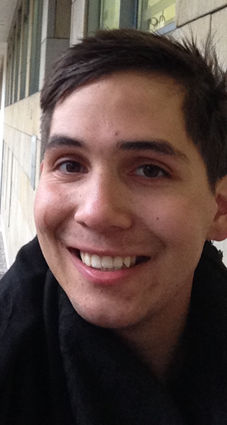
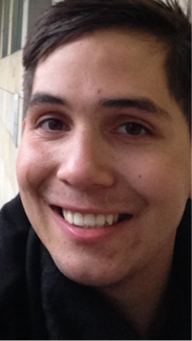
created css and js files without any additional work toward styling or scripting -- Links to github profile -- added alaska flag image and profile image, optimized image to reduce size -- TODO: STYLESHEETS, SCRIPTS, FINISH HTML SECTIONS

diff --git a/scripts/course.js b/scripts/course.js
@@ -1,0 +1,79 @@
+const courses = [
+    {
+        subject: 'CSE',
+        number: 110,
+        title: 'Introduction to Programming',
+        credits: 2,
+        certificate: 'Web and Computer Programming',
+        description: 'This course will introduce students to programming. It will introduce the building blocks of programming languages (variables, decisions, calculations, loops, array, and input/output) and use them to solve problems.',
+        technology: [
+            'Python'
+        ],
+        completed: true
+    },
+    {
+        subject: 'WDD',
+        number: 130,
+        title: 'Web Fundamentals',
+        credits: 2,
+        certificate: 'Web and Computer Programming',
+        description: 'This course introduces students to the World Wide Web and to careers in web site design and development. The course is hands on with students actually participating in simple web designs and programming. It is anticipated that students who complete this course will understand the fields of web design and development and will have a good idea if they want to pursue this degree as a major.',
+        technology: [
+            'HTML',
+            'CSS'
+        ],
+        completed: true
+    },
+    {
+        subject: 'CSE',
+        number: 111,
+        title: 'Programming with Functions',
+        credits: 2,
+        certificate: 'Web and Computer Programming',
+        description: 'CSE 111 students become more organized, efficient, and powerful computer programmers by learning to research and call functions written by others; to write, call , debug, and test their own functions; and to handle errors within functions. CSE 111 students write programs with functions to solve problems in many disciplines, including business, physical science, human performance, and humanities.',
+        technology: [
+            'Python'
+        ],
+        completed: true
+    },
+    {
+        subject: 'CSE',
+        number: 210,
+        title: 'Programming with Classes',
+        credits: 2,
+        certificate: 'Web and Computer Programming',
+        description: 'This course will introduce the notion of classes and objects. It will present encapsulation at a conceptual level. It will also work with inheritance and polymorphism.',
+        technology: [
+            'C#'
+        ],
+        completed: true
+    },
+    {
+        subject: 'WDD',
+        number: 131,
+        title: 'Dynamic Web Fundamentals',
+        credits: 2,
+        certificate: 'Web and Computer Programming',
+        description: 'This course builds on prior experience in Web Fundamentals and programming. Students will learn to create dynamic websites that use JavaScript to respond to events, update content, and create responsive user experiences.',
+        technology: [
+            'HTML',
+            'CSS',
+            'JavaScript'
+        ],
+        completed: true
+    },
+    {
+        subject: 'WDD',
+        number: 231,
+        title: 'Frontend Web Development I',
+        credits: 2,
+        certificate: 'Web and Computer Programming',
+        description: 'This course builds on prior experience with Dynamic Web Fundamentals and programming. Students will focus on user experience, accessibility, compliance, performance optimization, and basic API usage.',
+        technology: [
+            'HTML',
+            'CSS',
+            'JavaScript'
+        ],
+        completed: false
+    }
+]

diff --git a/index.html b/index.html
@@ -11,19 +11,21 @@
     <link rel="stylesheet" href="https://fonts.googleapis.com/css2?family=Open+Sans:wght@300;400;600;700&display=swap">
     <link rel="stylesheet" href="styles/layout.css">
     <script src="scripts/getdates.js" defer></script>
+    <script src="scripts/navigation.js" defer></script>
+    <script src="scripts/course.js" defer></script>
     <title>WDD 231: Web Frontend Development 1 - Chris Vaughan</title>
 </head>
 
 <body>
     <div class="parent">
         <header>
-            <img src="images/profile.png" alt="A picture of Chris Vaughan" style="width: 100%; max-width: 300px;">
+            <img src="images/profile.png" alt="A picture of Chris Vaughan" style="width: 100%; max-width: 100px;">
             <h1>Chris Vaughan</h1>
             <nav>
                 <ul class="navigation wrap">
-                    <li><a href="" title="Home">Home</a></li>
-                    <li><a href="" title="Chamber">Chamber</a></li>
-                    <li><a href="" title="GitHub Profile">GitHub Profile</a></li>
+                    <li><a href="#" title="Home" id="home">Home</a></li>
+                    <li><a href="" title="Chamber" id="chamber">Chamber</a></li>
+                    <li><a href="https://github.com/wcvaughan/wcvaughan" title="GitHub Profile">GitHub Profile</a></li>
                     <li><a href="https://www.linkedin.com/in/william-vaughan-juniorsoftwareengineer"
                             title="LinkedIn">LinkedIn</a></li>
                 </ul>
@@ -36,7 +38,7 @@
                 
             </section>
             <section class="home-card">
-
+                <img src="images/Flag_of_Alaska.png" alt="Flag of Alaska" class="alaska-flag">
             </section>
             <section class="course-card">
 
